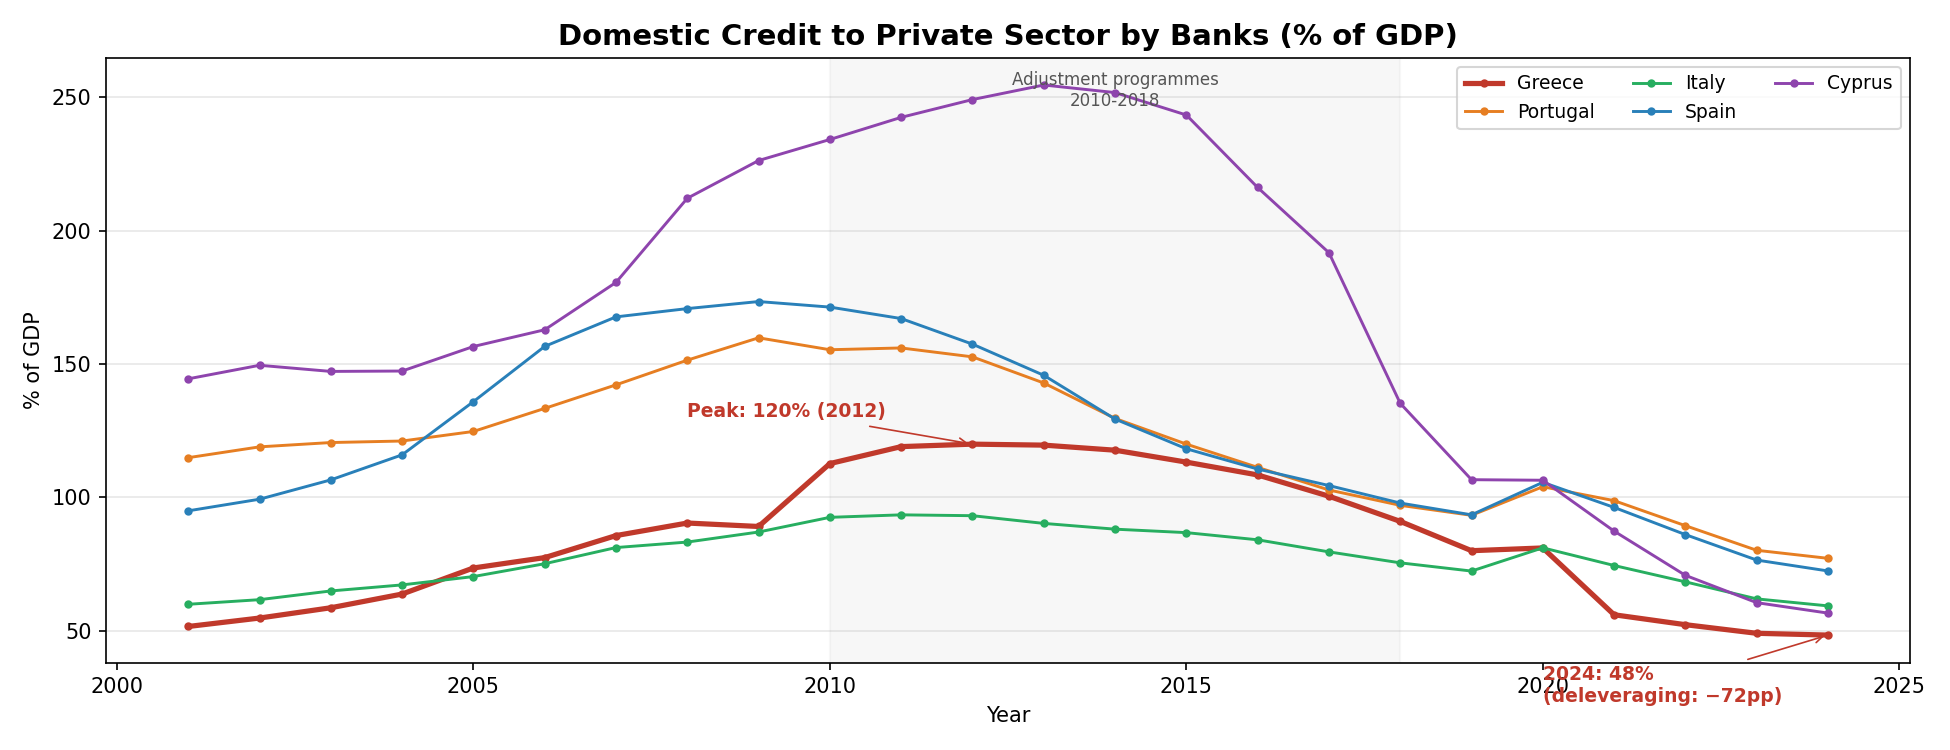
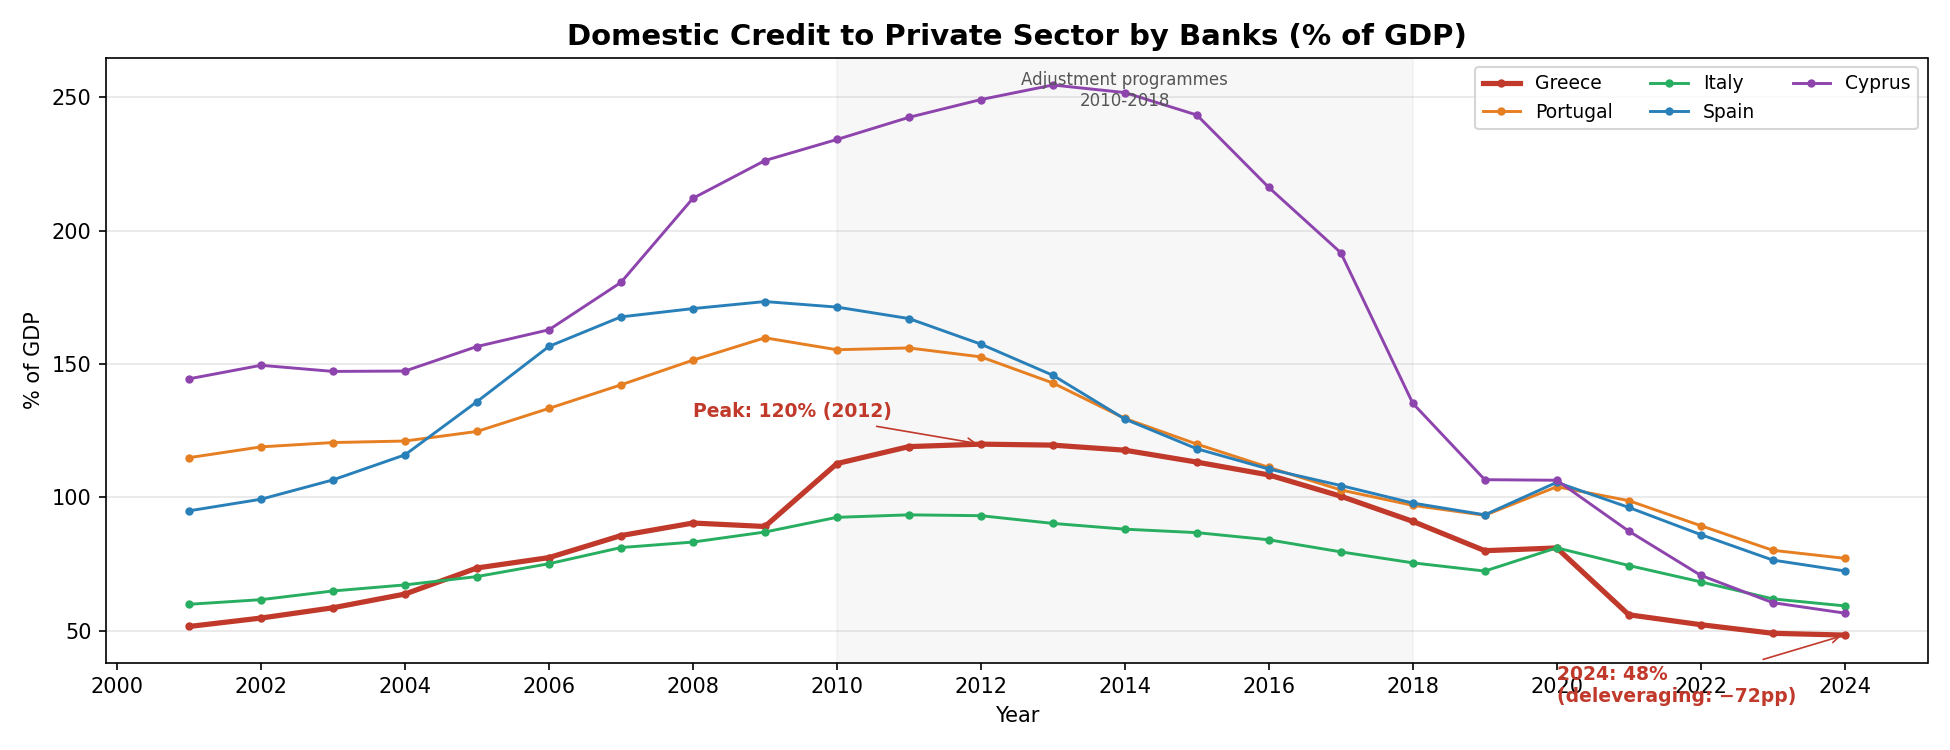
Fix decimal-year x-axis ticks in module 5 charts; correct §5.1 NPL figures
- plot_peer_lines now forces integer year ticks (every 2 years) using
  MultipleLocator + FormatStrFormatter, so labels no longer show '2020.0'
  or '2022.5'. Affects 05a (NPL), 05c (credit), 05d (bank capital);
  05b (deposits) was already on a date axis.
- §5.1 text: peak '45.6% (2017)' -> actual '46.0%' from the CSV.
- §5.1 text: 'fell to 4.6% by 2024' was unsupported (the WB series has
  NaN for 2024); latest value is 6.0% in 2023. Updated with a note
  that BoG supervisory data shows further declines into 2025.
- §5.1 text: 'rose from under 5% (2008)' -> 'under 3%' (actual 2008
  value was 2.5%).

diff --git a/greece/05_banking.py b/greece/05_banking.py
@@ -52,6 +52,8 @@ def plot_peer_lines(ax, df, highlight="GR"):
             lw = 2.5 if iso == highlight else 1.4
             ax.plot(df.index, df[iso], label=PEER_LABELS[iso],
                     color=COLORS[iso], linewidth=lw, marker="o", markersize=3)
+    ax.xaxis.set_major_locator(mticker.MultipleLocator(2))
+    ax.xaxis.set_major_formatter(mticker.FormatStrFormatter("%d"))
 
 # ---------------------------------------------------------------------------
 # 1. NPL ratio — the defining banking metric

diff --git a/greece/report.md b/greece/report.md
@@ -172,7 +172,7 @@ Nominal unit labour costs tell the same story even more cleanly. Greek NULC in 2
 
 ### 5.1 The NPL crisis
 
-The Greek banking system experienced one of the largest non-performing loan accumulations in modern banking history. The NPL ratio rose from under 5% (2008) to **45.6%** (2017) — a level normally seen only in post-war or post-currency-collapse economies. Resolution came through securitisation under the Hercules state-guarantee scheme: NPL ratios fell to 4.6% by 2024.
+The Greek banking system experienced one of the largest non-performing loan accumulations in modern banking history. The NPL ratio rose from under 3% (2008) to **46.0%** (2017) — a level normally seen only in post-war or post-currency-collapse economies. Resolution came through securitisation under the Hercules state-guarantee scheme: NPL ratios fell to 6.0% by 2023 (the latest year with data in this World Bank series; supervisory data published by the Bank of Greece show further declines into 2025).
 
 ![05a_npl_ratio.png](charts/05a_npl_ratio.png)
 
